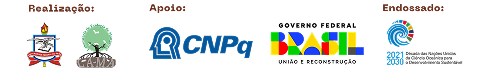
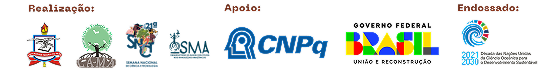
chore(footer): add osma and snct as supporters

diff --git a/src/components/Footer.tsx b/src/components/Footer.tsx
@@ -6,9 +6,9 @@ export const Footer: React.FC = () => {
         <span className="text-black text-base text-nowrap">um produto</span>
         <div className="border border-t border-[#C7BBA2] w-full" />
       </div>
-      <div className="flex flex-col md:flex-row items-center w-full justify-center">
+      <div className="flex flex-col items-center w-full justify-center">
         <img src="/logo-observatorio.png" alt="Logo Observatório" />
-        <img src="/marcas.png" alt="Logo Observatório" />
+        <img src="/marcas.png" alt="Logo dos Apoiadores" />
       </div>
     </section>
   );
